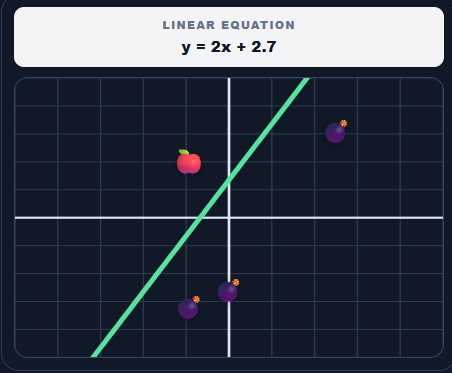
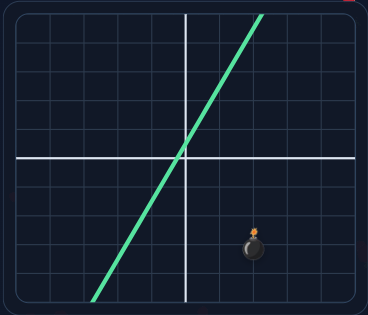
Added some images for getting started

diff --git a/mathninjajs/src/Screens/StageSelect/Tutorial/GettingStarted.jsx b/mathninjajs/src/Screens/StageSelect/Tutorial/GettingStarted.jsx
@@ -1,8 +1,7 @@
 import React, { useState } from "react";
 import BoardSlide from "./BoardSlider.jsx";
 import "../../../Assets/Styles/GettingStarted.css";
-import Adjust from "../../../Assets/Images/Adjust.png";
-import FireEquation from "../../../Assets/Images/FireEquation.png";
+import EquControl from "../../../Assets/Images/EquationControl.png";
 import GoodJob from "../../../Assets/Images/GoodJob.png";
 import Hotbar from "../../../Assets/Images/Hotbar.png";
 import Spawning from "../../../Assets/Images/Spawning.png";
@@ -44,13 +43,6 @@ const SLIDES = [
       accentColor:" #71f724",
     },
     {
-      imageSrc: Adjust,
-      imageAlt: "Adjust",
-      title: "Adjust Equations",
-      description: "You can change the equation before you fire so that you wont accidentally hit a bomb.",
-      accentColor: " #24f760",
-    },
-    {
       imageSrc: Spawning,
       imageAlt: "Objects",
       title: "Fruits and Bombs",
@@ -58,10 +50,10 @@ const SLIDES = [
       accentColor:" #24f0f7",
     },
     {
-      imageSrc: FireEquation,
-      imageAlt: "Fire",
+      imageSrc: EquControl,
+      imageAlt: "EquControl",
       title: "Fire the Equation",
-      description: "Think before you fire! Look at the preview of your equation first before firing to avoid hitting a bomb.",
+      description: "Think before you fire! Look at the preview of your equation first before firing to avoid hitting a bomb. You can change the equation before you fire so that you wont accidentally hit a bomb.",
       accentColor:" #2455f7",
     },
     {
